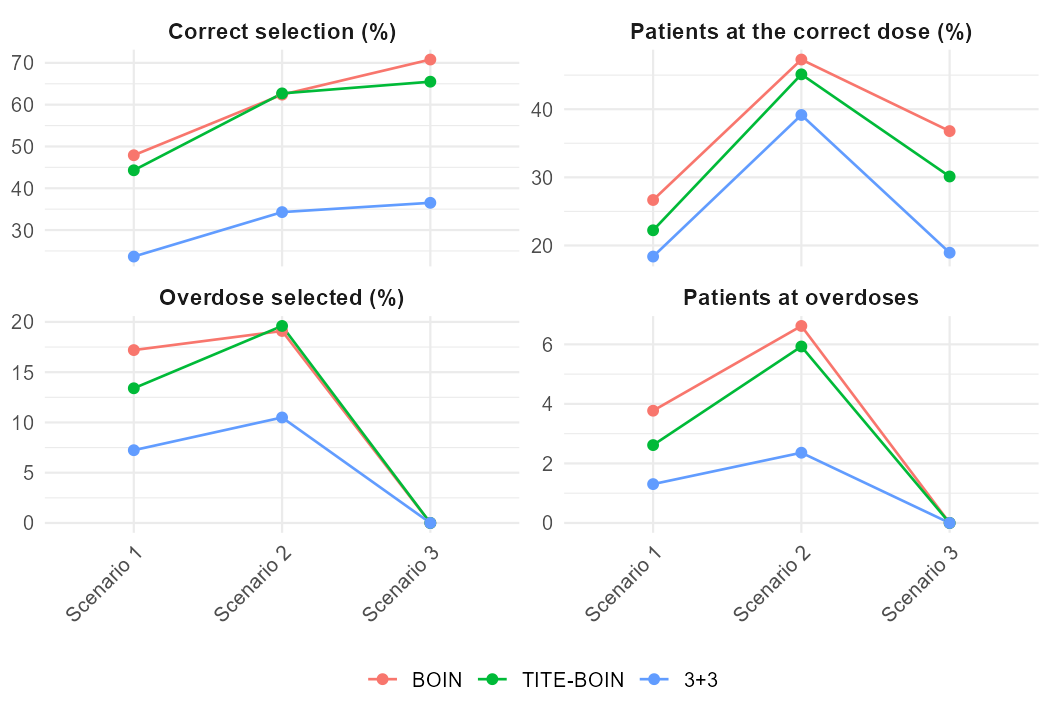
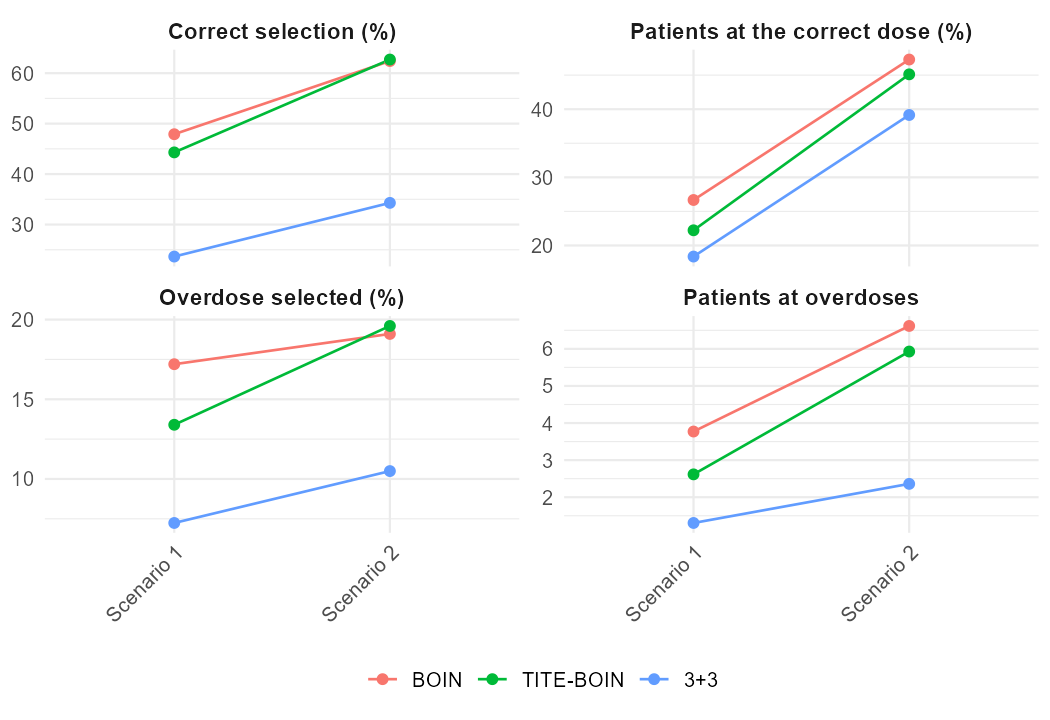
Prepare version 2.3.0

diff --git a/pkgdown/assets/cheatsheet/simFastBOIN_cheatsheet.html b/pkgdown/assets/cheatsheet/simFastBOIN_cheatsheet.html
@@ -316,7 +316,7 @@ nxt &lt;- comb_boin_next(target = 0.25, n_pts = n_pts, n_tox = n_tox,
 nxt
 plot(nxt)</code></pre>
   <figure>
-    <img src="figures/comb_next.png" alt="Matrix of three levels of drug A by four of drug B with the number of DLTs and of patients in every cell, the current combination A2B2, the combination for the next cohort and the eliminated combinations marked." loading="lazy">
+    <img src="figures/comb_next.png" alt="Matrix of three levels of drug A by four of drug B with the number of DLTs and of patients in every cell, the current combination A2B2 and the combination for the next cohort, A1B2, marked." loading="lazy">
     <figcaption><code>plot(nxt)</code>: DLTs and patients at every combination, the current one, the next one and those eliminated.</figcaption>
   </figure>
   <p>The <strong>waterfall</strong> design finds the MTD contour, one combination at every level of drug A.</p>
@@ -363,8 +363,7 @@ sim_uboin(tox_upper = 0.30, resp_lower = 0.20,
   <h2>Compare designs and scenarios</h2>
   <p><code>oc_scenarios()</code> gives the true MTD (and OBD) of every scenario, <code>oc_results()</code> sets the results of several designs side by side and <code>oc_compare()</code> judges them against the true doses. Nothing is simulated again.</p>
 <pre><code class="language-r">scenarios &lt;- list("Scenario 1" = c(0.05, 0.10, 0.20, 0.30, 0.45),
-                  "Scenario 2" = c(0.10, 0.30, 0.45, 0.55, 0.65),
-                  "Scenario 3" = c(0.02, 0.05, 0.08, 0.15, 0.30))
+                  "Scenario 2" = c(0.10, 0.30, 0.45, 0.55, 0.65))
 truth &lt;- oc_scenarios(scenarios, target = 0.30)
 
 design &lt;- list(target = 0.30, scenarios = scenarios, n_cohort = 10,

diff --git a/cran-comments.md b/cran-comments.md
@@ -1,38 +1,38 @@
 ## Submission
 
-This is version 2.2.0 of simFastBOIN, an update of version 2.1.0 currently on
-CRAN. It adds designs that decide from both the toxicity and the response and
-select the optimal biological dose:
+This is version 2.3.0 of simFastBOIN, an update of version 2.2.0 currently on
+CRAN. It adds six designs:
 
-* the BOIN-ET design (Takeda et al., 2018) with its time-to-event version
-  (TITE-BOIN-ET, Takeda et al., 2020) and its backfill version (BF-BOIN-ET,
-  Takeda et al., 2025);
-* the utility-based BOIN12 design (Lin et al., 2020) with its time-to-event
-  version (TITE-BOIN12, Zhou et al., 2022);
-* for two drugs given together, the Comb-BOIN12 design with its
-  time-to-event version (Lu et al., 2025) and the BOIN-ETC design (Kakizume
-  et al., 2024).
+* the iBOIN design (Zhou et al., 2021), which brings prior information on
+  the DLT probabilities into the decision boundaries;
+* the gBOIN design (Mu et al., 2019), which decides from toxicity grades;
+* the gBOIN-ET design (Takeda et al., 2022) and its time-to-event version
+  TITE-gBOIN-ET (Takeda et al., 2023), which select the optimal biological
+  dose from graded toxicity and graded efficacy;
+* for two drugs given together, the waterfall design (Zhang and Yuan, 2016),
+  which finds the contour of maximum tolerated doses;
+* the U-BOIN design (Zhou, Lee and Yuan, 2019), which selects the optimal
+  biological dose by the utility of the joint outcome of a patient.
 
-It also adds the accelerated BOIN design (Kojima et al., 2024) through a new
-argument of the existing BOIN functions, functions that tabulate and plot the
-results of several designs side by side, and two vignettes. Existing functions
-only gain arguments whose defaults keep their results, so no existing result
-changes.
+It also adds a vignette that sets designs and scenarios side by side.
+Existing functions keep their results, except that BOIN-ET, TITE-BOIN-ET
+and BF-BOIN-ET now compare the utilities of the doses after rounding, so
+that a tie between two doses no longer depends on rounding error and the
+selection is the same on every platform (NEWS.md).
 
-The new engines are compiled code in src/ (boinet.cpp, boin12.cpp,
-tite_boin12.cpp, comb_boin12.cpp, tite_comb_boin12.cpp and boin_etc.cpp, with
-their headers), written in standard C++ with Rcpp as before. 'boinet',
-'bfboinet' and 'mfp' are new suggested packages: the tests compare the
-boundaries and the selected doses with 'boinet', the scripts in
-inst/validation compare the simulations with 'boinet' and 'bfboinet', and
-'mfp' fits an optional estimator after a check that it is installed. The
-DESCRIPTION cites the articles by DOI.
+The new engines are compiled code in src/ (iboin.cpp, gboin.cpp,
+gboinet.cpp, tite_gboinet.cpp, waterfall.cpp and uboin.cpp, with their
+headers), written in standard C++ with Rcpp as before. There are no new
+dependencies. The DESCRIPTION cites the new articles by DOI.
 
-The tests check the published decision tables and compare the engines trial
-by trial with fixtures computed by separate implementations. The scripts in
-inst/reproduce set the simulations beside the published tables of the
-articles; their tables of judgments are installed in inst/reproduce/results
-and inst/validation/results and summarized in the vignettes.
+As in the previous versions, the tests check the published tables and
+compare the engines trial by trial with fixtures computed by separate
+implementations, and the scripts in inst/reproduce and inst/validation set
+the simulations beside the published tables and the reference
+implementations; their tables of judgments are installed in
+inst/reproduce/results and inst/validation/results and summarized in the
+vignettes. A script in inst/benchmark times the package against the
+reference implementations, with its results in inst/benchmark/results.
 
 ## Test environments
 

diff --git a/README.md b/README.md
@@ -12,7 +12,12 @@
 
 Simulation tools for Bayesian optimal interval (BOIN) designs in phase I
 dose-finding trials. The documentation, with the seven vignettes, is also
-available at <https://gosukehommaex.github.io/simFastBOIN/>.
+available at <https://gosukehommaex.github.io/simFastBOIN/>, with a
+[cheat sheet](https://gosukehommaex.github.io/simFastBOIN/cheatsheet/simFastBOIN_cheatsheet.html)
+of the functions and articles on
+[how the package is checked](https://gosukehommaex.github.io/simFastBOIN/articles/simFastBOIN-validation.html)
+and on its
+[computation time](https://gosukehommaex.github.io/simFastBOIN/articles/simFastBOIN-speed.html).
 
 ## Overview
 
@@ -79,8 +84,8 @@ subtrials along which the toxicity increases, runs BOIN-ET in each of them
 and selects the optimal dose combination by a utility, in the three versions
 of the article.
 
-The development version (2.2.0.9000) adds two extensions of the single-agent
-design. The iBOIN design of Zhou et al. (2021) brings prior information, a
+Version 2.3.0 adds two extensions of the single-agent design. The iBOIN
+design of Zhou et al. (2021) brings prior information, a
 skeleton of prior DLT probabilities and a prior effective sample size, into the
 decision boundaries, which then depend on the dose; `iboin_boundary()`
 reproduces Table 1 of the article, and without prior information the trials
@@ -253,7 +258,7 @@ sim_comb_boin(
 | `boin_isotonic()` | Isotonic estimates of the dose-toxicity curve |
 | `boin_select_mtd()` | MTD selection from completed trials |
 
-**Prior information (iBOIN, development version)**
+**Prior information (iBOIN)**
 
 | Function | Purpose |
 |---|---|
@@ -263,7 +268,7 @@ sim_comb_boin(
 | `iboin_simulate()` | Raw trial data from the engine |
 | `iboin_select_mtd()` | MTD selection with or without the prior information |
 
-**Toxicity grades (gBOIN, development version)**
+**Toxicity grades (gBOIN)**
 
 | Function | Purpose |
 |---|---|
@@ -302,7 +307,7 @@ sim_comb_boin(
 | `comb_boin_select_mtd()` | MTD combination selection from completed trials |
 | `comb_boin_next()` | Combination for the next cohort of a trial in progress, with `print()` and `plot()` methods |
 
-**MTD contour of a drug combination (waterfall, development version)**
+**MTD contour of a drug combination (waterfall)**
 
 | Function | Purpose |
 |---|---|
@@ -327,7 +332,7 @@ sim_comb_boin(
 | `sim_bf_boin_et()` | Operating characteristics of the backfill BF-BOIN-ET design |
 | `sim_bf_boin_et_multi()` | The same across scenarios |
 
-**Optimal biological dose from grades (gBOIN-ET and TITE-gBOIN-ET, development version)**
+**Optimal biological dose from grades (gBOIN-ET and TITE-gBOIN-ET)**
 
 | Function | Purpose |
 |---|---|
@@ -339,7 +344,7 @@ sim_comb_boin(
 | `sim_tite_gboin_et_multi()` | The same across scenarios |
 | `tite_gboin_et_simulate()` | Raw trial data from the TITE-gBOIN-ET engine |
 
-**Optimal biological dose by the utility of the joint outcome (U-BOIN, development version)**
+**Optimal biological dose by the utility of the joint outcome (U-BOIN)**
 
 | Function | Purpose |
 |---|---|

diff --git a/NEWS.md b/NEWS.md
@@ -1,6 +1,6 @@
-# simFastBOIN 2.2.0.9000
+# simFastBOIN 2.3.0
 
-Development version. It adds designs to the single-agent BOIN design: the
+This version adds designs to the single-agent BOIN design: the
 iBOIN design of Zhou et al. (2021), which brings prior information on the DLT
 probability of every dose into the decision boundaries, the gBOIN design of
 Mu et al. (2019), which decides from toxicity grades instead of from the DLT
@@ -11,7 +11,11 @@ two drugs given together, it adds the waterfall design of Zhang and Yuan
 (2016), which finds the MTD contour, and for the optimal biological dose the
 U-BOIN design of Zhou, Lee and Yuan (2019), which weighs the response
 against the toxicity by the utility of the joint outcome of a patient.
-Existing functions keep their results.
+Existing functions keep their results, except that BOIN-ET, TITE-BOIN-ET
+and BF-BOIN-ET now compare the utilities of the doses after rounding, so
+that a tie between two doses no longer depends on rounding error (see "Doses
+with the same utility" below). The pkgdown site has a cheat sheet and
+articles on how the package is checked and on its computation time.
 
 ## iBOIN
 
